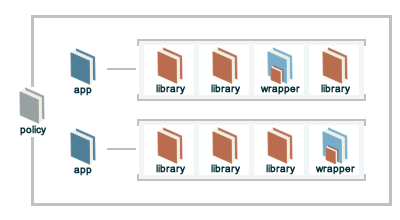
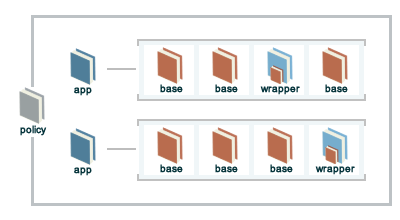
rename library to base

diff --git a/includes_cookbook/includes_cookbook_pattern_types.rst b/includes_cookbook/includes_cookbook_pattern_types.rst
@@ -11,9 +11,9 @@ In addition to these basic guidelines, the cookbooks themselves should follow so
    * - Pattern
      - Description
    * - .. image:: ../../images/icon_cookbook_type_library.png
-     - A |cookbook type_library| cookbook is a core cookbook that configures a specific part of a node, such as the platform itself---|centos|, |mac os x|, |redhat|, |ubuntu| or |windows|---but also other components like |runit|, |cron|, or |ntp|. Anything that is considered core to most (or even all) nodes in the organization is a good candidate to be managed using a |cookbook type_library| cookbook. A |cookbook type_library| cookbook is often a community cookbook used without modification, but is sometimes a cookbook that is build to address specific organizational requirements. Typically, this cookbook does not have dependencies on any other cookbook.
+     - A |cookbook type_base| cookbook is a core cookbook that configures a specific part of a node, such as the platform itself---|centos|, |mac os x|, |redhat|, |ubuntu| or |windows|---but also other components like |runit|, |cron|, or |ntp|. Anything that is considered core to most (or even all) nodes in the organization is a good candidate to be managed using a |cookbook type_base| cookbook. A |cookbook type_base| cookbook is often a community cookbook used without modification, but is sometimes a cookbook that is build to address specific organizational requirements. Typically, this cookbook does not have dependencies on any other cookbook.
    * - .. image:: ../../images/icon_cookbook_type_wrapper.png
-     - A |cookbook type_wrapper| cookbook makes specific changes to a |cookbook type_library| cookbook and/or extends that cookbook, effectivelly wrapping around the |cookbook type_library| cookbook a small set of specific changes. This is done (for the most part) to avoid forking a community cookbook, while still using the functionality built into that cookbook.
+     - A |cookbook type_wrapper| cookbook makes specific changes to a |cookbook type_base| cookbook and/or extends that cookbook, effectivelly wrapping around the |cookbook type_base| cookbook a small set of specific changes. This is done (for the most part) to avoid forking a community cookbook, while still using the functionality built into that cookbook.
    * - .. image:: ../../images/icon_cookbook_type_app.png
      - A |cookbook type_app| cookbook applies the configuration necessary to run applications on a node, such as |apache tomcat|, |postgresql|, or |sensu|. One (or more) |cookbook type_app| cookbooks can work together to define the full appllication stack. For example, a base |cookbook type_app| cookbook applies the underlying configuration, a data |cookbook type_app| cookbook sets up the data layer, and a webserver |cookbook type_app| cookbook sets up the node to run as a web server. Ideally, each |cookbook type_app| cookbook represents a repeatable configuration that is usable across many nodes.
    * - .. image:: ../../images/icon_cookbook_type_policy.png

diff --git a/includes_cookbook/includes_cookbook_pattern_wrapper.rst b/includes_cookbook/includes_cookbook_pattern_wrapper.rst
@@ -1,15 +1,15 @@
 .. The contents of this file are included in multiple topics.
 .. This file should not be changed in a way that hinders its ability to appear in multiple documentation sets.
 
-A |cookbook type_wrapper| cookbook modifies the behavior of a |cookbook type_library| cookbook.
+A |cookbook type_wrapper| cookbook modifies the behavior of a |cookbook type_base| cookbook.
 
 Some common charactistics of a |cookbook type_wrapper| cookbook:
 
-* Is often associated 1:1 with a |cookbook type_library| cookbook
+* Is often associated 1:1 with a |cookbook type_base| cookbook
 * Is never a wrapper around a |cookbook type_wrapper| cookbook
 * Is never based on a cookbook that has been forked from |github|
-* Typically makes a small number of specific changes within the |cookbook type_wrapper| cookbook, but otherwise makes no changes to the |cookbook type_library| cookbook
+* Typically makes a small number of specific changes within the |cookbook type_wrapper| cookbook, but otherwise makes no changes to the |cookbook type_base| cookbook
 * Is often extended to meet organizational requirements, such as adding new recipes, attributes, or custom resources
-* Is typically NOT used only to modify |cookbook type_library| cookbook attributes
+* Is typically NOT used only to modify |cookbook type_base| cookbook attributes
 * Is unique to an organization
-* Should follow a naming pattern that includes both the name of the |cookbook type_library| cookbook on which the |cookbook type_wrapper| cookbook is based preceded by a |cookbook type_wrapper| name that is used globally across the organization for all |cookbook type_wrapper| cookbooks, e.g. ``organization_name-library_cookbook_name``
+* Should follow a naming pattern that includes both the name of the |cookbook type_base| cookbook on which the |cookbook type_wrapper| cookbook is based preceded by a |cookbook type_wrapper| name that is used globally across the organization for all |cookbook type_wrapper| cookbooks, e.g. ``organization_name-library_cookbook_name``

diff --git a/includes_cookbook/includes_cookbook_pattern_base.rst b/includes_cookbook/includes_cookbook_pattern_base.rst
@@ -1,7 +1,7 @@
 .. The contents of this file are included in multiple topics.
 .. This file should not be changed in a way that hinders its ability to appear in multiple documentation sets.
 
-A |cookbook type_library| cookbook abstracts core component applications into reusable building blocks:
+A |cookbook type_base| cookbook abstracts core component applications into reusable building blocks:
 
 * Operating systems, such as |centos| and |redhat|
 * Package managers, such as |yum| and |apt|
@@ -11,7 +11,7 @@ A |cookbook type_library| cookbook abstracts core component applications into re
 * Programming languages, such as |php|, |perl|, |ruby|, and |java|
 * Common libraries, such as -- chef run-time (chef sugar, etc.) and/or system (make, gcc, etc.) 
 
-Some common charactistics of a |cookbook type_library| cookbook:
+Some common charactistics of a |cookbook type_base| cookbook:
 
 * Defines the desired state for core components, i.e. "creates building blocks that can be used anywhere"
 * Is typically associated 1:1 with a core component
@@ -20,4 +20,4 @@ Some common charactistics of a |cookbook type_library| cookbook:
 * Is never forked from a |github| repository
 * Typically does not have a dependency on another cookbook
 
-See https://github.com/opscode-cookbooks for a good starting point for cookbooks that can be leveraged as |cookbook type_library| cookbooks. Some standouts include chef-splunk, nginx, apt, and homebrew.
+See https://github.com/opscode-cookbooks for a good starting point for cookbooks that can be leveraged as |cookbook type_base| cookbooks. Some standouts include chef-splunk, nginx, apt, and homebrew.

diff --git a/includes_cookbook/includes_cookbook_pattern.rst b/includes_cookbook/includes_cookbook_pattern.rst
@@ -13,3 +13,5 @@ A primary goal of cookbook authoring is to create cookbooks that are reusable as
 * When a cookbook is uploaded to the |chef server|, it is versioned and that version is frozen
 * Community cookbooks are a great resource; often a community cookbook can be used wholesale (without changes), but sometimes a community cookbook needs a wrapper that is used to ensure specific organizational requirements are met
 * Recipes in cookbooks should be modular, minimally prescriptive, and use custom resources to expose repeatable patterns that are needed to solve implementation-specific requirements
+
+.. note:: This topic uses the following terms: |cookbook type_app|, |cookbook type_base|, |cookbook type_wrapper|, and |cookbook type_policy| to represent different approaches for creating building blocks out of cookbooks. These terms aren't always used consistently within the larger |chef| community. That said, the most important takeaway from this topic isn't the terms themselves, but instead the following: 1) use community cookbooks as often as possible; modify community cookbooks using |cookbook type_wrapper| cookbooks (when necessary); all cookbooks should work together as building blocks that represent the various working configurations that your organization requires.

diff --git a/chef_master/source/cookbooks.rst b/chef_master/source/cookbooks.rst
@@ -4,7 +4,7 @@ Cookbooks
 
 .. include:: ../../includes_cookbooks/includes_cookbooks.rst
 
-.. warning:: This topic is a work in progress. It does not represent a suggested workflow or a recommended workflow. It attempts to recognize some high-level common ways people use cookbooks, that is all.
+.. warning:: This topic is a work in progress. It does not represent a suggested workflow or a recommended workflow. It attempts to recognize some high-level common ways people use cookbooks, put them in a single topic so that the concepts may be discussed, that is all.
 
 Global Patterns
 =====================================================
@@ -18,9 +18,9 @@ Pattern Types
 =====================================================
 .. include:: ../../includes_cookbook/includes_cookbook_pattern_types.rst
 
-Library Cookbooks
+Base Cookbooks
 -----------------------------------------------------
-.. include:: ../../includes_cookbook/includes_cookbook_pattern_library.rst
+.. include:: ../../includes_cookbook/includes_cookbook_pattern_base.rst
 
 Wrapper Cookbooks
 -----------------------------------------------------

diff --git a/includes_cookbook/includes_cookbook_pattern_app.rst b/includes_cookbook/includes_cookbook_pattern_app.rst
@@ -14,8 +14,8 @@ Some common charactistics of an |cookbook type_app| cookbook:
 
 * Is associated 1:1 with a working configuration
 * One (or more) |cookbook type_app| cookbooks define the desired state for the stack of applications
-* Is rarely based on a community cookbook, but often leverages |cookbook type_library| and |cookbook type_wrapper| cookbooks
-* Often contains one (or more) dependencies on other cookbooks, typically these dependencies are on |cookbook type_library| and |cookbook type_wrapper| cookbooks, but not always
+* Is rarely based on a community cookbook, but often leverages |cookbook type_base| and |cookbook type_wrapper| cookbooks
+* Often contains one (or more) dependencies on other cookbooks, typically these dependencies are on |cookbook type_base| and |cookbook type_wrapper| cookbooks, but not always
 * Uses recipes to define the parts of the application
 * May add custom resources
 * Is typically unique to an organization, but often shareable across nodes within that organization

diff --git a/includes_cookbook/includes_cookbook_pattern_wrapper_example.rst b/includes_cookbook/includes_cookbook_pattern_wrapper_example.rst
@@ -2,7 +2,7 @@
 .. This file should not be changed in a way that hinders its ability to appear in multiple documentation sets.
 
 
-An orgainzation named ``grantmc`` uses |splunk|. The |company_name| |cookbook chef_splunk| cookbook is a public cookbook in the |company_name| cookbook repository on |github|. This cookbook will be used as a |cookbook type_library| by the ``grantmc`` organization. 
+An orgainzation named ``grantmc`` uses |splunk|. The |company_name| |cookbook chef_splunk| cookbook is a public cookbook in the |company_name| cookbook repository on |github|. This cookbook will be used as a |cookbook type_base| by the ``grantmc`` organization. 
 
 The ``server.rb`` recipe in the |cookbook chef_splunk| cookbook installs a |splunk| server, configures it to run as a service, configures user authentication, and enables |ssl|. But the |cookbook chef_splunk| cookbook does not specify how large the database can get before it is frozen:
 

diff --git a/includes_cookbook/includes_cookbook_pattern_policy.rst b/includes_cookbook/includes_cookbook_pattern_policy.rst
@@ -8,7 +8,7 @@
 Some common charactistics of a |cookbook type_policy| cookbook:
 
 * Is typically associated 1:1 with a |chef server| policy object
-* Sometimes makes a small number of specific changes to |cookbook type_library|, |cookbook type_wrapper|, or |cookbook type_app| cookbooks
+* Sometimes makes a small number of specific changes to |cookbook type_base|, |cookbook type_wrapper|, or |cookbook type_app| cookbooks
 * Is sometimes extended to meet organizational requirements
 * Is unique to an organization
 * Relies on cookbook versions to be frozen, and then pinned to specific |cookbook type_policy| cookbooks
